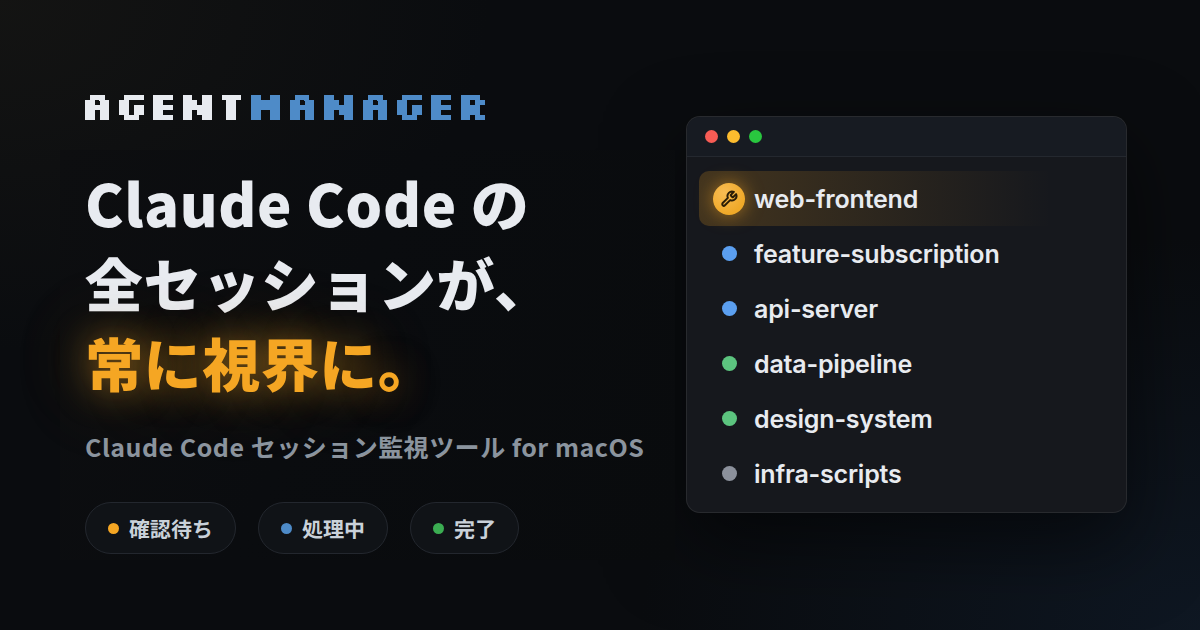
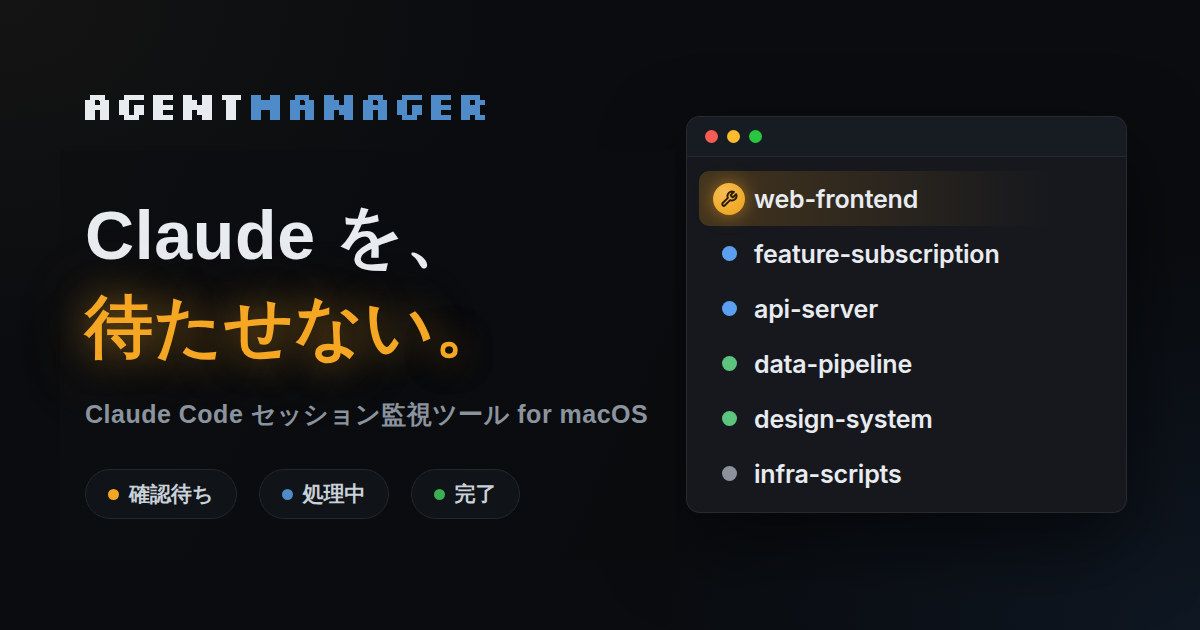
feat: LP/OGPの訴求を「Claudeを待たせない」軸に刷新
- OGP/Twitterカードのtitle・description・画像内見出しをボトルネック反転コピーへ変更
- H1/hero-subを並列訴求＋1クリックジャンプ構成に変更、問題提起文・料金リードを追随
- gen-ja.pyにOG_TITLEを新設しog:titleをtitleタグから分離、ja.htmlを再生成
- 英語版OGPテンプレート tools/og-image.html を新設し、OGP画像2枚を再生成

Claude-Session: https://claude.ai/code/session_013VzSUCdQKTGtBdxaW3KQY5

diff --git a/ja.html b/ja.html
@@ -14,17 +14,17 @@
 <meta content="website" property="og:type"/>
 <meta content="https://agentmgr.app/ja.html" property="og:url"/>
 <meta content="AgentManager" property="og:site_name"/>
-<meta content="AgentManager — Claude Code セッション監視ツール for macOS" property="og:title"/>
-<meta content="Claude Code の確認待ちをもう見逃さない。全セッションを監視する macOS 用フローティングウィンドウ。無料で使えます。" property="og:description"/>
+<meta content="AgentManager — Claude を、待たせない。" property="og:title"/>
+<meta content="あなたが気づくまで、Claude は止まっています。全 Claude Code セッションを見張り、必要な瞬間だけ現れる macOS 用フローティングウィンドウ。無料で使えます。" property="og:description"/>
 <meta content="https://agentmgr.app/og-image-ja.png" property="og:image"/>
 <meta content="1200" property="og:image:width"/>
 <meta content="630" property="og:image:height"/>
-<meta content="AgentManager — 確認待ちのセッションを見逃さない。" property="og:image:alt"/>
+<meta content="AgentManager — Claude を待たせない。" property="og:image:alt"/>
 <meta content="ja_JP" property="og:locale"/>
 <meta content="en_US" property="og:locale:alternate"/>
 <meta content="summary_large_image" name="twitter:card"/>
-<meta content="AgentManager — Claude Code セッション監視ツール for macOS" name="twitter:title"/>
-<meta content="Claude Code の確認待ちをもう見逃さない。全セッションを監視する macOS 用フローティングウィンドウ。無料で使えます。" name="twitter:description"/>
+<meta content="AgentManager — Claude を、待たせない。" name="twitter:title"/>
+<meta content="あなたが気づくまで、Claude は止まっています。全 Claude Code セッションを見張り、必要な瞬間だけ現れる macOS 用フローティングウィンドウ。無料で使えます。" name="twitter:description"/>
 <meta content="https://agentmgr.app/og-image-ja.png" name="twitter:image"/>
 <link href="favicon.ico" rel="icon" sizes="48x48"/>
 <link href="favicon-32x32.png" rel="icon" sizes="32x32" type="image/png"/>
@@ -686,7 +686,7 @@
   ],
   "inLanguage": "ja"
 }</script>
-<script defer src="/utm.js"></script>
+<script defer="" src="/utm.js"></script>
 </head>
 <body>
 <!-- HEADER -->
@@ -713,8 +713,8 @@
 <div class="hero">
 <!-- LEFT: copy -->
 <div>
-<h1 data-en="Your Claude Code sessions,&lt;br&gt;&lt;em&gt;always in view.&lt;/em&gt;" data-ja="Claude Code の全セッションが、&lt;br&gt;&lt;em&gt;常に視界に。&lt;/em&gt;">Claude Code の全セッションが、<br/><em>常に視界に。</em></h1>
-<p class="hero-sub" data-en="A floating macOS window for every Claude Code session. The moment one needs input, it surfaces. When all is clear, it hides." data-ja="全 Claude Code セッションを監視するフローティングウィンドウ。確認が必要な瞬間に自動で現れ、全て解消すると引っ込みます。">全 Claude Code セッションを監視するフローティングウィンドウ。確認が必要な瞬間に自動で現れ、全て解消すると引っ込みます。</p>
+<h1 data-en="Stop keeping&lt;br&gt;&lt;em&gt;Claude waiting.&lt;/em&gt;" data-ja="Claude を、&lt;br&gt;&lt;em&gt;待たせない。&lt;/em&gt;">Claude を、<br/><em>待たせない。</em></h1>
+<p class="hero-sub" data-en="Run as many Claude Code sessions as you like. A floating window appears the moment one needs you — and jumps you to the right terminal in one click." data-ja="何本の Claude Code セッションを並べても大丈夫。確認が必要な瞬間だけ現れるフローティングウィンドウが、1クリックでそのターミナルへ連れて行きます。">何本の Claude Code セッションを並べても大丈夫。確認が必要な瞬間だけ現れるフローティングウィンドウが、1クリックでそのターミナルへ連れて行きます。</p>
 <div class="cta-row">
 <div>
 <a class="btn btn-primary" data-cta="hero_download" data-en="↓ Free Download" data-ja="↓ 無料ダウンロード" href="https://github.com/umechanhika/agent-manager-site/releases/latest/download/AgentManager.dmg" id="download-btn">↓ 無料ダウンロード</a>
@@ -776,7 +776,7 @@
 <!-- PAIN SECTION: why you need this — one beat, before features -->
 <section class="pain-sec">
 <div class="pain-inner">
-<p data-en="Running multiple sessions? &lt;strong&gt;You won’t notice which one is waiting&lt;/strong&gt; until it’s too late. AgentManager fixes that." data-ja="複数のセッションが同時進行。&lt;strong&gt;どれが確認待ちか、気づかない。&lt;/strong&gt;AgentManagerが解決します。">複数のセッションが同時進行。<strong>どれが確認待ちか、気づかない。</strong>AgentManagerが解決します。</p>
+<p data-en="Sessions run in parallel. &lt;strong&gt;Until you notice, Claude just sits idle.&lt;/strong&gt; AgentManager fixes that." data-ja="複数のセッションが同時進行。&lt;strong&gt;あなたが気づくまで、Claude は止まったまま。&lt;/strong&gt;AgentManager が解決します。">複数のセッションが同時進行。<strong>あなたが気づくまで、Claude は止まったまま。</strong>AgentManager が解決します。</p>
 </div>
 </section>
 <!-- PIXEL DIVIDER -->
@@ -913,7 +913,7 @@
 <div class="pricing-inner">
 <div class="sec-head">
 <span class="section-label" data-en="Pricing" data-ja="料金">料金</span>
-<p class="sec-sub" data-en="Free to use, forever. Upgrade to show unlimited sessions at once." data-ja="ずっと無料で使えます。アップグレードすると同時表示が無制限になります。">ずっと無料で使えます。アップグレードすると同時表示が無制限になります。</p>
+<p class="sec-sub" data-en="Free to use, forever. When you're ready to run more sessions in parallel, upgrade for unlimited at once." data-ja="ずっと無料で使えます。並列セッションを増やしたくなったら、アップグレードで同時表示が無制限に。">ずっと無料で使えます。並列セッションを増やしたくなったら、アップグレードで同時表示が無制限に。</p>
 </div>
 <div class="price-grid">
 <!-- Free plan -->

diff --git a/index.html b/index.html
@@ -12,17 +12,17 @@
   <meta property="og:type" content="website">
   <meta property="og:url" content="https://agentmgr.app/">
   <meta property="og:site_name" content="AgentManager">
-  <meta property="og:title" content="AgentManager — Claude Code session monitor for macOS">
-  <meta property="og:description" content="Never miss a Claude Code prompt. A floating macOS window for your sessions. Free to use.">
+  <meta property="og:title" content="AgentManager — Stop keeping Claude waiting.">
+  <meta property="og:description" content="Until you notice, Claude just sits there. A floating macOS window that watches every Claude Code session and surfaces the moment one needs you. Free to use.">
   <meta property="og:image" content="https://agentmgr.app/og-image.png">
   <meta property="og:image:width" content="1200">
   <meta property="og:image:height" content="630">
-  <meta property="og:image:alt" content="AgentManager — Never miss a session waiting for you.">
+  <meta property="og:image:alt" content="AgentManager — Stop keeping Claude waiting.">
   <meta property="og:locale" content="en_US">
   <meta property="og:locale:alternate" content="ja_JP">
   <meta name="twitter:card" content="summary_large_image">
-  <meta name="twitter:title" content="AgentManager — Claude Code session monitor for macOS">
-  <meta name="twitter:description" content="Never miss a Claude Code prompt. A floating macOS window for your sessions. Free to use.">
+  <meta name="twitter:title" content="AgentManager — Stop keeping Claude waiting.">
+  <meta name="twitter:description" content="Until you notice, Claude just sits there. A floating macOS window that watches every Claude Code session and surfaces the moment one needs you. Free to use.">
   <meta name="twitter:image" content="https://agentmgr.app/og-image.png">
   <link rel="icon" href="favicon.ico" sizes="48x48">
   <link rel="icon" type="image/png" sizes="32x32" href="favicon-32x32.png">
@@ -722,15 +722,15 @@
 
   <!-- LEFT: copy -->
   <div>
-    <h1 data-en="Your Claude Code sessions,<br><em>always in view.</em>"
-        data-ja="Claude Code の全セッションが、<br><em>常に視界に。</em>">
-      Your Claude Code sessions,<br><em>always in view.</em>
+    <h1 data-en="Stop keeping<br><em>Claude waiting.</em>"
+        data-ja="Claude を、<br><em>待たせない。</em>">
+      Stop keeping<br><em>Claude waiting.</em>
     </h1>
 
     <p class="hero-sub"
-       data-en="A floating macOS window for every Claude Code session. The moment one needs input, it surfaces. When all is clear, it hides."
-       data-ja="全 Claude Code セッションを監視するフローティングウィンドウ。確認が必要な瞬間に自動で現れ、全て解消すると引っ込みます。">
-      A floating macOS window for every Claude Code session. The moment one needs input, it surfaces. When all is clear, it hides.
+       data-en="Run as many Claude Code sessions as you like. A floating window appears the moment one needs you — and jumps you to the right terminal in one click."
+       data-ja="何本の Claude Code セッションを並べても大丈夫。確認が必要な瞬間だけ現れるフローティングウィンドウが、1クリックでそのターミナルへ連れて行きます。">
+      Run as many Claude Code sessions as you like. A floating window appears the moment one needs you — and jumps you to the right terminal in one click.
     </p>
 
     <div class="cta-row">
@@ -812,9 +812,9 @@
 <!-- PAIN SECTION: why you need this — one beat, before features -->
 <section class="pain-sec">
   <div class="pain-inner">
-    <p data-en="Running multiple sessions? <strong>You won&rsquo;t notice which one is waiting</strong> until it&rsquo;s too late. AgentManager fixes that."
-       data-ja="複数のセッションが同時進行。<strong>どれが確認待ちか、気づかない。</strong>AgentManagerが解決します。">
-      Running multiple sessions? <strong>You won&rsquo;t notice which one is waiting</strong> until it&rsquo;s too late. AgentManager fixes that.
+    <p data-en="Sessions run in parallel. <strong>Until you notice, Claude just sits idle.</strong> AgentManager fixes that."
+       data-ja="複数のセッションが同時進行。<strong>あなたが気づくまで、Claude は止まったまま。</strong>AgentManager が解決します。">
+      Sessions run in parallel. <strong>Until you notice, Claude just sits idle.</strong> AgentManager fixes that.
     </p>
   </div>
 </section>
@@ -993,8 +993,8 @@
     <div class="sec-head">
       <span class="section-label" data-en="Pricing" data-ja="料金">Pricing</span>
       <p class="sec-sub"
-         data-en="Free to use, forever. Upgrade to show unlimited sessions at once."
-         data-ja="ずっと無料で使えます。アップグレードすると同時表示が無制限になります。">Free to use, forever. Upgrade to show unlimited sessions at once.</p>
+         data-en="Free to use, forever. When you're ready to run more sessions in parallel, upgrade for unlimited at once."
+         data-ja="ずっと無料で使えます。並列セッションを増やしたくなったら、アップグレードで同時表示が無制限に。">Free to use, forever. When you're ready to run more sessions in parallel, upgrade for unlimited at once.</p>
     </div>
 
     <div class="price-grid">

diff --git a/tools/og-image.html b/tools/og-image.html
@@ -1,24 +1,24 @@
 <!DOCTYPE html>
-<html lang="ja">
+<html lang="en">
 <head>
 <meta charset="UTF-8">
 <link rel="preconnect" href="https://fonts.gstatic.com" crossorigin>
-<link href="https://fonts.googleapis.com/css2?family=Noto+Sans+JP:wght@700;900&display=swap" rel="stylesheet">
+<link href="https://fonts.googleapis.com/css2?family=Inter:wght@700;800&display=swap" rel="stylesheet">
 <style>
   * { margin: 0; padding: 0; box-sizing: border-box; }
   body { width: 1200px; height: 630px; position: relative; overflow: hidden; background: #0a0c0f; }
   .base { position: absolute; inset: 0; width: 1200px; height: 630px; }
-  /* 英語テキスト部分を覆うパッチ（背景はほぼ均一 #0a0c0f、四隅の実測値に合わせた微グラデ） */
+  /* 既存テキスト部分を覆うパッチ（背景はほぼ均一 #0a0c0f、四隅の実測値に合わせた微グラデ） */
   .patch {
     position: absolute; left: 60px; top: 150px; width: 615px; height: 410px;
     background: linear-gradient(115deg, #0d0e10 0%, #0a0c0f 45%, #090b0d 100%);
   }
   .copy {
     position: absolute; left: 85px; top: 190px; width: 610px;
-    font-family: 'Noto Sans JP', sans-serif;
+    font-family: 'Inter', sans-serif;
   }
   h1 {
-    font-weight: 900; font-size: 68px; line-height: 1.34; letter-spacing: 0.01em;
+    font-weight: 800; font-size: 68px; line-height: 1.22; letter-spacing: -0.01em;
     color: #E8EBF0;
   }
   h1 .accent {
@@ -26,7 +26,7 @@
     text-shadow: 0 0 34px rgba(245, 166, 35, 0.5), 0 0 80px rgba(245, 166, 35, 0.25);
   }
   .sub {
-    margin-top: 26px; font-weight: 700; font-size: 25px; letter-spacing: 0.02em;
+    margin-top: 26px; font-weight: 700; font-size: 25px; letter-spacing: 0.01em;
     color: #8b949e;
   }
   .chips { margin-top: 38px; display: flex; gap: 22px; }
@@ -43,12 +43,12 @@
   <img class="base" src="../og-image.png">
   <div class="patch"></div>
   <div class="copy">
-    <h1>Claude を、<br><span class="accent">待たせない。</span></h1>
-    <div class="sub">Claude Code セッション監視ツール for macOS</div>
+    <h1>Stop keeping<br><span class="accent">Claude waiting.</span></h1>
+    <div class="sub">Claude Code session monitor for macOS</div>
     <div class="chips">
-      <div class="chip"><span class="dot" style="background:#F5A623"></span>確認待ち</div>
-      <div class="chip"><span class="dot" style="background:#4E8BC8"></span>処理中</div>
-      <div class="chip"><span class="dot" style="background:#3BAD52"></span>完了</div>
+      <div class="chip"><span class="dot" style="background:#F5A623"></span>Waiting</div>
+      <div class="chip"><span class="dot" style="background:#4E8BC8"></span>Processing</div>
+      <div class="chip"><span class="dot" style="background:#3BAD52"></span>Done</div>
     </div>
   </div>
 </body>

diff --git a/tools/gen-ja.py b/tools/gen-ja.py
@@ -24,11 +24,14 @@ DESCRIPTION = (
     "全 Claude Code セッションを監視する macOS 用フローティングウィンドウ。"
     "確認が必要な瞬間に自動で現れ、見逃しを防ぎます。無料で使えます。"
 )
+# og:title / twitter:title はカード用の訴求コピー（title タグはカテゴリ識別のため別建て）
+OG_TITLE = "AgentManager — Claude を、待たせない。"
 OG_DESCRIPTION = (
-    "Claude Code の確認待ちをもう見逃さない。"
-    "全セッションを監視する macOS 用フローティングウィンドウ。無料で使えます。"
+    "あなたが気づくまで、Claude は止まっています。"
+    "全 Claude Code セッションを見張り、必要な瞬間だけ現れる macOS 用フローティングウィンドウ。"
+    "無料で使えます。"
 )
-OG_IMAGE_ALT = "AgentManager — 確認待ちのセッションを見逃さない。"
+OG_IMAGE_ALT = "AgentManager — Claude を待たせない。"
 # 日本語版OG画像。tools/og-image-ja.html を Chromium (1200x630) でスクリーンショットして生成する。
 OG_IMAGE = "https://agentmgr.app/og-image-ja.png"
 JA_URL = "https://agentmgr.app/ja.html"
@@ -70,7 +73,7 @@ def main() -> None:
     find_one(soup, "link", rel="canonical")["href"] = JA_URL
     og = {
         "og:url": JA_URL,
-        "og:title": TITLE,
+        "og:title": OG_TITLE,
         "og:description": OG_DESCRIPTION,
         "og:image": OG_IMAGE,
         "og:image:alt": OG_IMAGE_ALT,
@@ -80,7 +83,7 @@ def main() -> None:
     for prop, value in og.items():
         find_one(soup, "meta", attrs={"property": prop})["content"] = value
     for name, value in {
-        "twitter:title": TITLE,
+        "twitter:title": OG_TITLE,
         "twitter:description": OG_DESCRIPTION,
         "twitter:image": OG_IMAGE,
     }.items():
